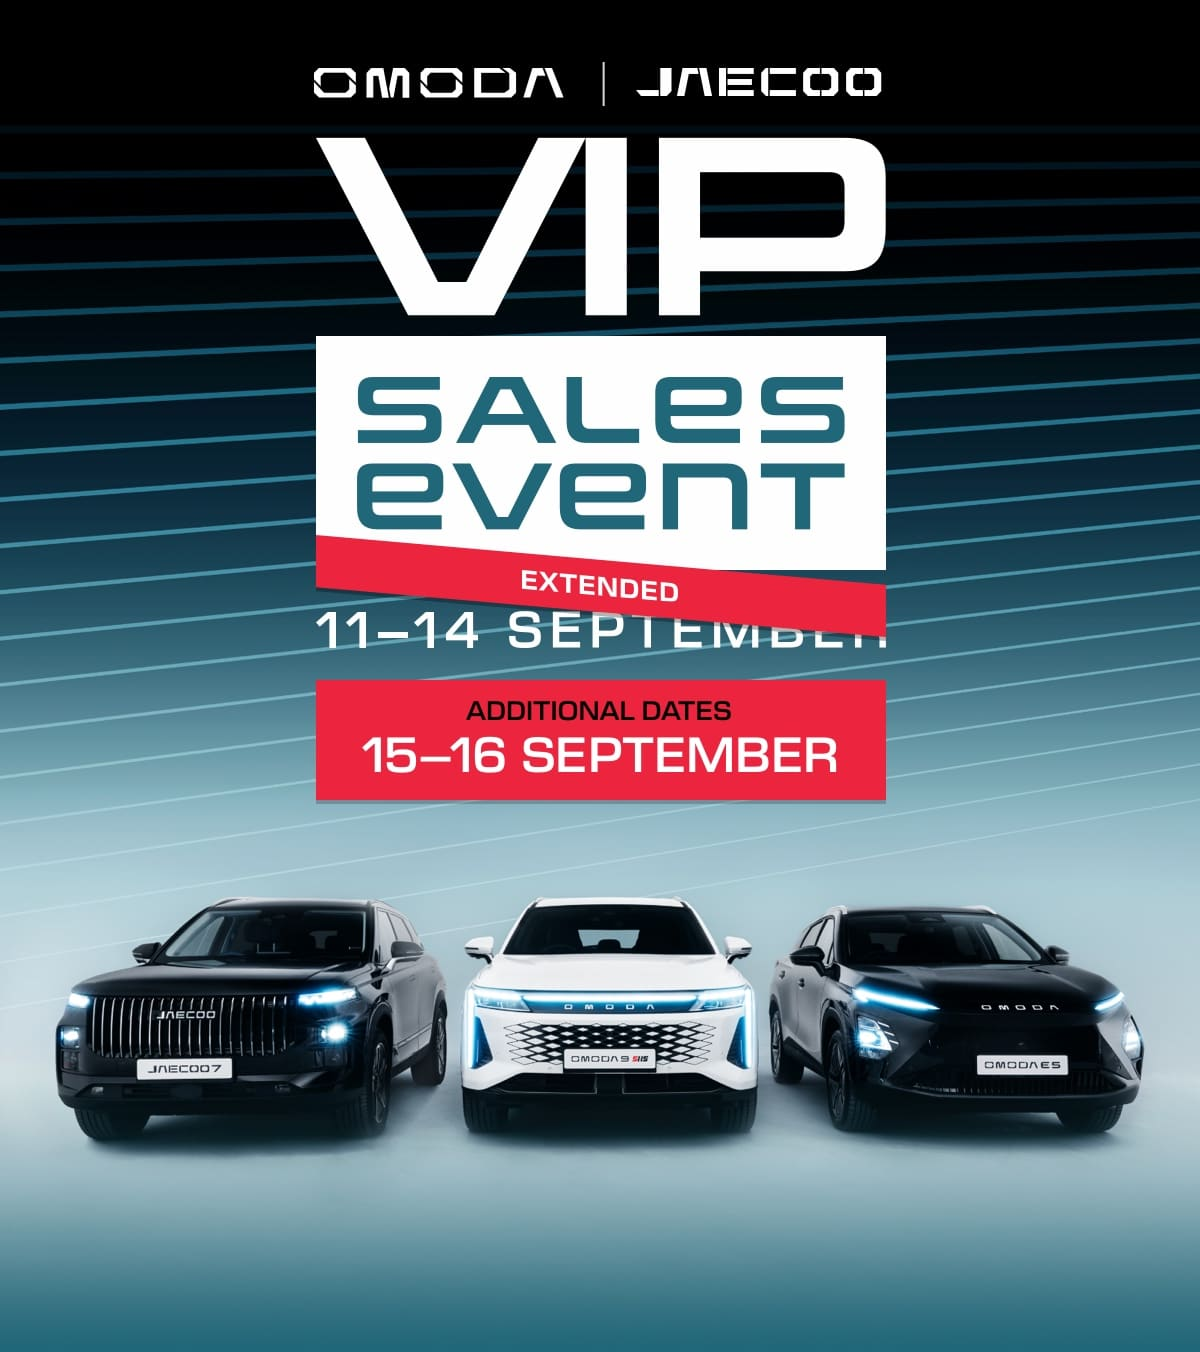
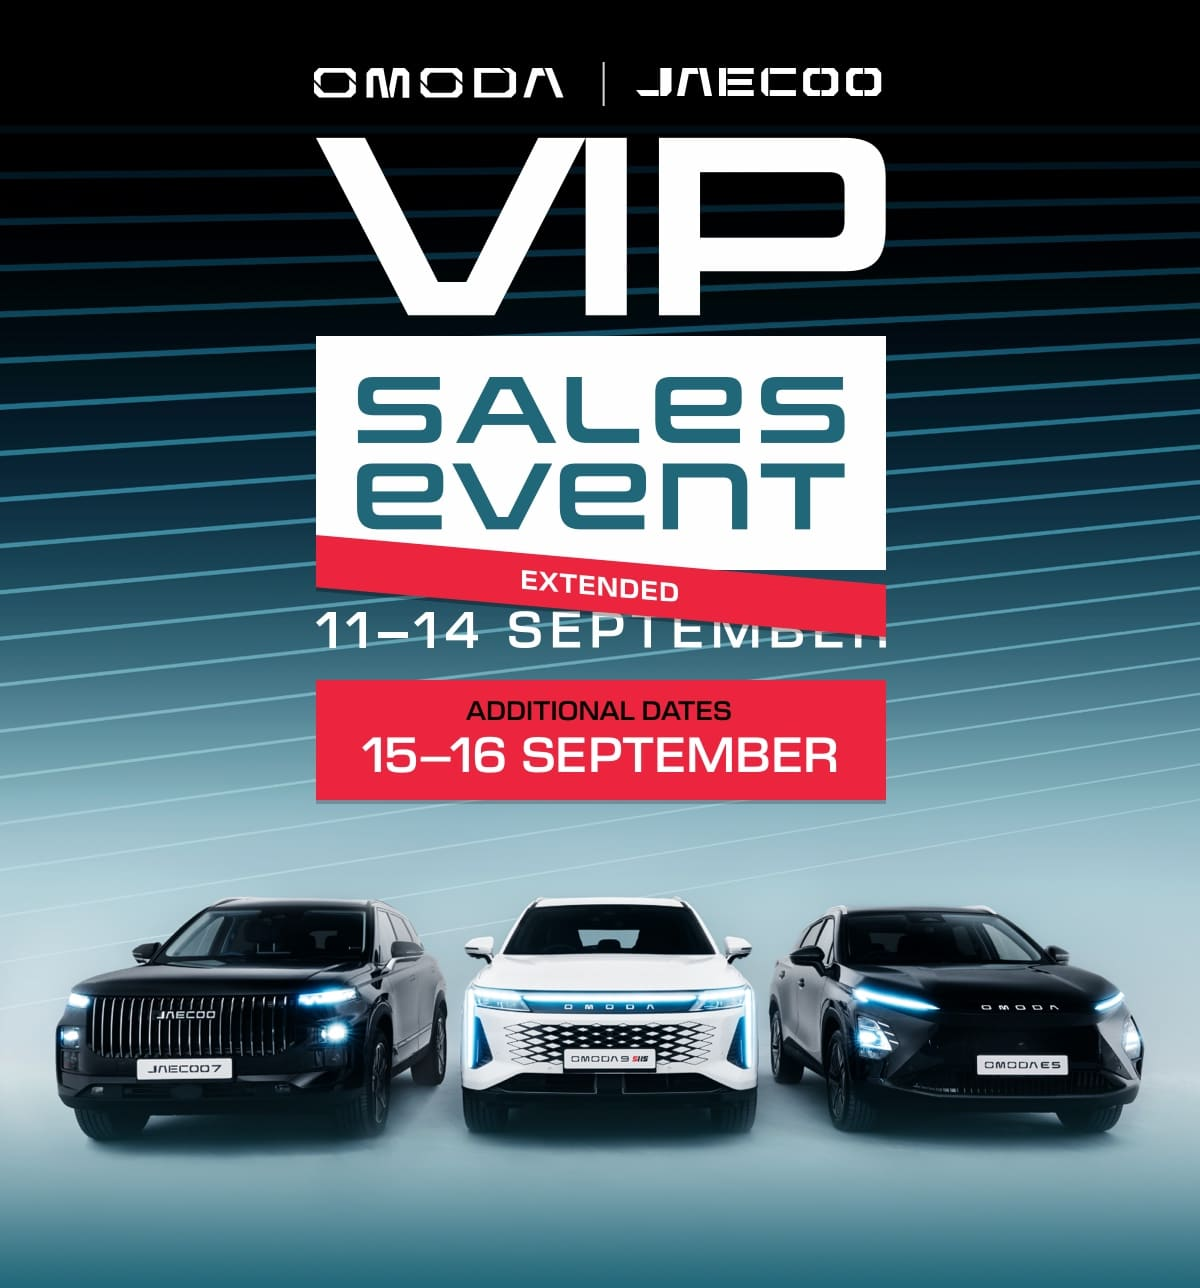
update

diff --git a/complete/omoda/Sales Event Email 2 - Extended/index.html b/complete/omoda/Sales Event Email 2 - Extended/index.html
@@ -465,9 +465,9 @@
                   <tbody>
                     <tr>
                       <td>
-                        <img class="resp hom" align="center" src="https://mcusercontent.com/74b24442c8d7d0b842e25d035/images/779753bf-11a1-e49b-3f76-4e54174d6fdb.jpg" alt="" width="600" height="676" border="0" style="display: block; width: 100%; max-width: 100%;height: auto">
+                        <img class="resp hom" align="center" src="https://mcusercontent.com/74b24442c8d7d0b842e25d035/images/df131e74-0985-b7a2-7a25-14e875e69f4e.jpg" alt="" width="600" height="644" border="0" style="display: block; width: 100%; max-width: 100%;height: auto">
                         <!--[if !mso]><!-->
-                        <img class="resp som" align="center" src="https://mcusercontent.com/74b24442c8d7d0b842e25d035/images/779753bf-11a1-e49b-3f76-4e54174d6fdb.jpg" alt="" width="600" border="0" style="display: none; width: 100%; max-width: 100%;height: auto">
+                        <img class="resp som" align="center" src="https://mcusercontent.com/74b24442c8d7d0b842e25d035/images/df131e74-0985-b7a2-7a25-14e875e69f4e.jpg" alt="" width="600" border="0" style="display: none; width: 100%; max-width: 100%;height: auto">
                         <!--<![endif]-->
                       </td>
                     </tr>
